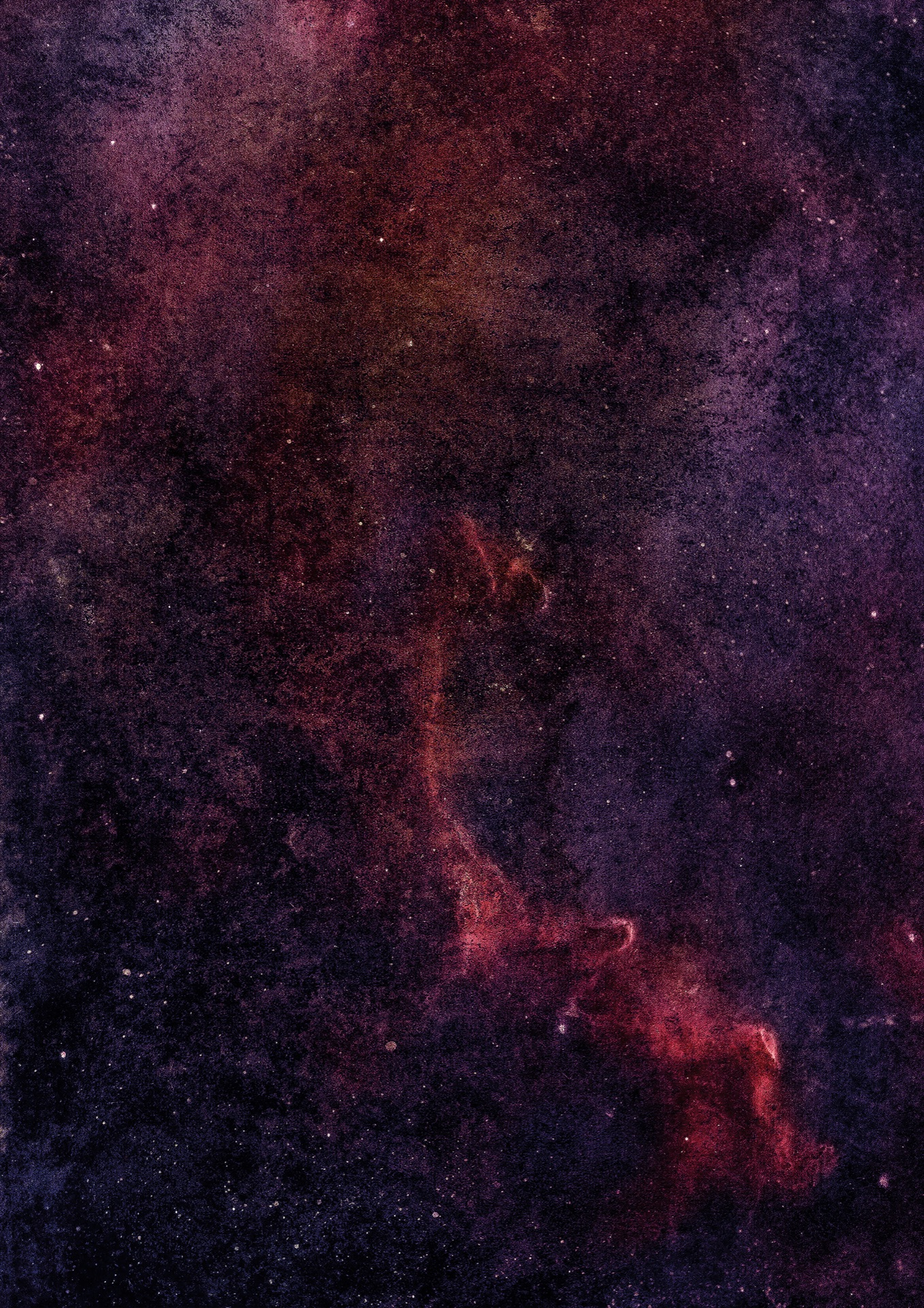
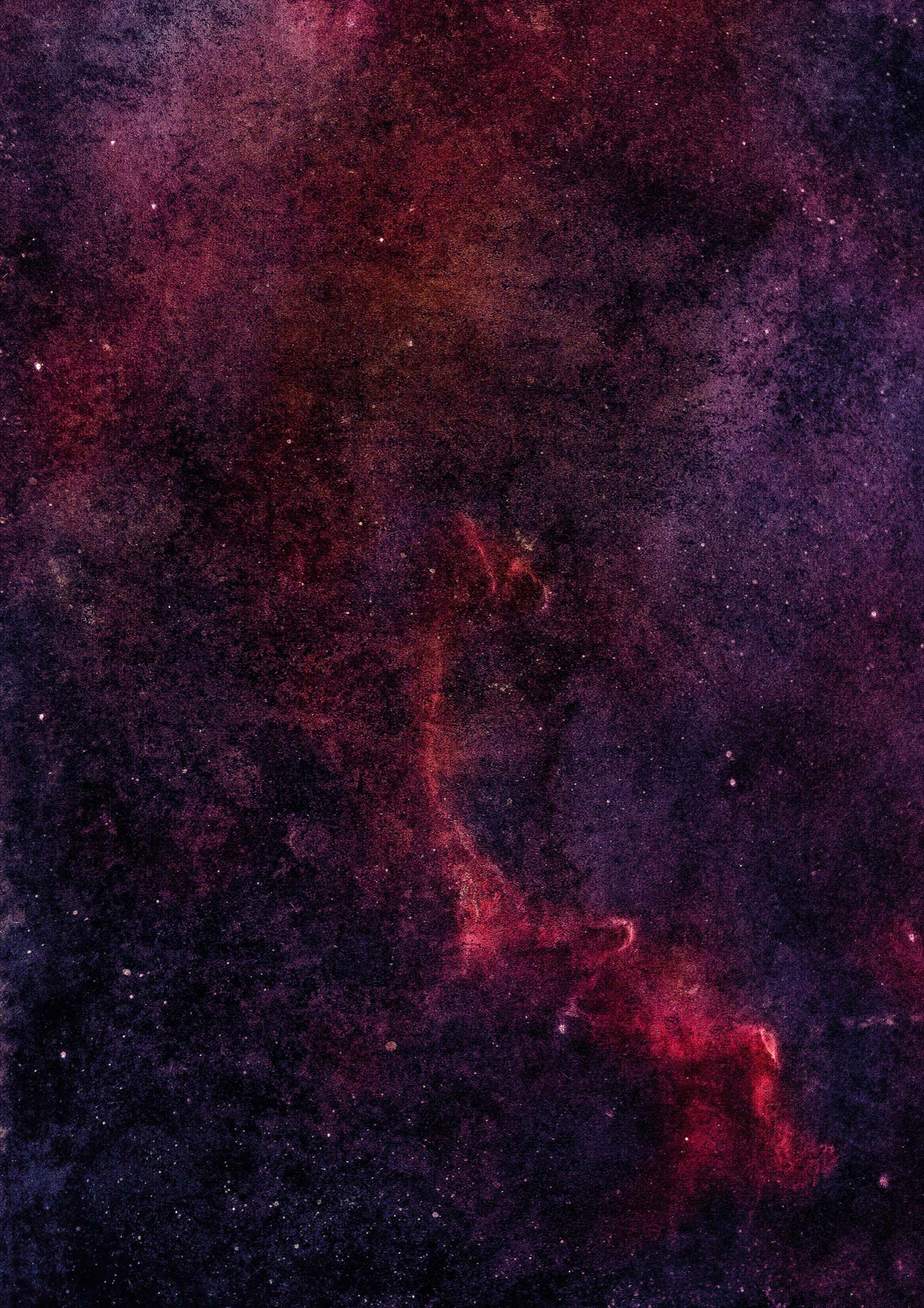
Mensaje del commit

Changed region(s): [[0.7119, 0.75, 0.7738, 0.8125], [0.8047, 0.7812, 0.8357, 0.8438], [0.4952, 0.6875, 0.5571, 0.7188]]

diff --git a/src/data/artistas.ts b/src/data/artistas.ts
@@ -111,13 +111,19 @@ export const artistas2026: Artista[] = [
     nombre: "SYL AL",
     origen: "FRANCE",
     estilo: "DJ - Música seleccionada",
-    imagen: "/artistas/syl-al.jpg",
+    imagen: "/images/2026/syl_al.jpg",
     web: "", // ✏ Actualizar con la web real
     video: "", // ✏ Actualizar con URL de YouTube
     biografia: [
-      "Syl Al es un referente en la selección musical desde Francia, con una trayectoria dedicada a la excavación sonora y la promoción de los sonidos negros americanos más genuinos: Soul, Funk, Boogaloo y R&B.",
-      "Conocido por su capacidad para leer la pista de baile y conectar generaciones a través de la música, sus sets son una masterclass de programación musical, equilibrando himnos clásicos con joyas ocultas de 45 revoluciones.",
-      "Su presencia en el Midnight Boogie Weekend es un lujo para los amantes del vinilo, garantizando transiciones impecables y una atmósfera de club auténtico entre los conciertos en directo."
+      "Soy Syl All, francés de la región de Burdeos. Comencé a coleccionar discos a principios de los años 90 y, poco después, di el salto a las cabinas como DJ.Mi gran pasión es la música afroamericana de finales de los años 50 y los 60: Rhythm & Blues primitivo, Soul clásico, Mod Jazz, Latin Boogaloo, Bossa Nova, Exotica, sonidos Hammond, bongós y flauta, además de Ska y música jamaicana, R&B británico y Garage.",
+      "A lo largo de los años he participado en destacados festivales y encuentros de la escena mod y Rhythm & Blues europea, como Clean Cut, The Beat Goes On, León Mod Weekender, 123 R&B (Reino Unido), Paris Mod Weekend y Afterglow (Belfast), y compartiendo cabina con algunos de los mejores DJs del circuito internacional. Además de estos festivales, actúo habitualmente en restaurantes audiófilos y eventos privados de mi región, compartiendo una pasión que me acompaña desde hace más de tres décadas: descubrir y hacer bailar al público con música auténtica, elegante y atemporal.Es un auténtico placer haber sido invitado como DJ para esta nueva edición del Midnight Boogie Weekend. Espero que disfrutéis de mi selección musical tanto como yo disfrutaré compartiéndola con vosotros.",
+      "¡Muchas gracias y nos vemos en la pista de baile!.",
+      "TOP 5",
+      "1. Otis Rush - I am satisfied CHESS.",
+      "2. Toni Harper - Heavenly love RCA.",
+      "3. Willie Mae Thornton - Just like a dog PEACOCK",
+      "4. John Byner - Baby please dont go POP SIDE",
+      "5. Xavier Cugat - One mint julep MERCURY ",
     ]
   },
 
@@ -126,13 +132,18 @@ export const artistas2026: Artista[] = [
     nombre: "BEA GB",
     origen: "GASTEIZ",
     estilo: "DJ - Música seleccionada",
-    imagen: "/images/2026/bea-gb.png",
+    imagen: "/images/2026/bea-gb.webp",
     web: "",
     video: "",
     biografia: [
-      "BEA GB es una DJ con sede en Vitoria-Gasteiz, reconocida por una selección musical única que conecta la tradición del Northern Soul y el Funk con las pistas de baile más exigentes.",
-      "Sus sesiones son un viaje sonoro cuidadosamente curado, donde los vinilos raros y las ediciones limitadas cobran vida. Ha pinchado en algunas de las noches más memorables de la escena local y festivales del norte de España.",
-      "En Midnight Boogie 2026, BEA GB será la encargada de calentar los motores el viernes y cerrar la noche del sábado con una sesión especial, asegurando que el groove no se detenga hasta el amanecer."
+      "Hola a todos, estoy encantada de participar en este Midnight Boogie, impulsado por amigos muy queridos, que comparten mi pasión por esta música del alma. Y es que en tantos años se   amontonan en mi cabeza miles de anécdotas y buenos ratos, un tiempo en el que no he dejado de disfrutar aprendiendo y descubriendo los más estimulantes sonidos. 25 años que se han ido volando y durante los cuales prácticamente se ha definido mi parte en la mejor escena del mundo. Hay muchas formas de protestar y muchos elegimos esta, elegancia, estilo, clase, compromiso, resistencia… y fiesta!.",
+      "Mis sets están compuestos por soul (60’s-early70’s) y rhythm&blues, y siempre incluyo algo de latin refrescante. He tenido la ocasión de pinchar en eventos como el Mod Generation Club, Mojo Workin’, Beat Goes On, Euro Ye-Yé, All Saints Mod Holiday Lavarone, Clean Cut y Ebroclub.",
+      "TOP 5:",
+      "1. I'm shakin - Little Willie John",
+      "2. Heartbreaker - BB King",
+      "3. Sweet lover no more - Gene McDaniels",
+      "4. Keep an eye on love - Ernestine Anderson",
+      "5. He'll come back - Sylvia Shemwell",
     ]
   },
  

diff --git a/src/data/archivo.ts b/src/data/archivo.ts
@@ -58,7 +58,7 @@ export const pastEditions: PastEdition[] = [
     dates: "27-28 de noviembre, 2020",
     description: "Espectacular edición del festival, con una gran afluencia a todos los eventos y las entradas agotadas el sábado.",
     artists: ["Artista 1", "Artista 2", "Artista 3"],
-    image: "/images/archivo-2020.jpg"
+    image: "/images/2020/2020.jpg"
   },
   {
     year: 2019,
@@ -84,12 +84,5 @@ export const pastEditions: PastEdition[] = [
     artists: ["Artista 1", "Artista 2", "Artista 3"],
     image: "/images/2017/2017.jpg"
   },
-  {
-    year: 2016,
-    title: "Midnight Boogie 2016",
-    dates: "25-26 de noviembre, 2016",
-    description: "Espectacular edición del festival, con una gran afluencia a todos los eventos y las entradas agotadas el sábado.",
-    artists: ["Artista 1", "Artista 2", "Artista 3"],
-    image: "/images/archivo-2016.jpg"
-  }
+ 
 ];

diff --git a/src/lib/getSlug.ts b/src/lib/getSlug.ts
@@ -1,0 +1,18 @@
+/**
+ * Generates a clean, consistent slug from an artist name.
+ * Normalizes unicode, removes accents, strips non-alphanumeric characters,
+ * and replaces spaces/multiple hyphens with a single hyphen.
+ * 
+ * Example: "Syl Al" -> "syl-al"
+ *          "STONE FOUNDATION" -> "stone-foundation"
+ */
+export function getSlug(nombre: string): string {
+  return nombre
+    .toLowerCase()
+    .normalize("NFD")
+    .replace(/[\u0300-\u036f]/g, "") // remove accents/diacritics
+    .replace(/[^a-z0-9\s-]/g, "")    // remove non-alphanumeric chars (keep spaces and hyphens)
+    .trim()
+    .replace(/\s+/g, "-")            // replace spaces with hyphens
+    .replace(/-+/g, "-");            // deduplicate hyphens
+}

diff --git a/src/data/programa.ts b/src/data/programa.ts
@@ -67,7 +67,7 @@ export const programa2026 = {
         descripcion: "Taller musical para los más pequeños. Un clásico en nuestra programación: la escuela de música Creative Soul ofrecerá un taller muy didáctico de improvisación y experimentación musical para los peques.",
         artistas: [],
         precio: "Gratis con inscripción",
-        link: "https://www.fundacionvital.eus/",
+        link: "https://www.fundacionvital.eus/taller-musical-infantil-creative-soul",
         linkTexto: "Inscripción en la web de Fundación Vital"
       }
     ]

diff --git a/src/data/entradas.ts b/src/data/entradas.ts
@@ -31,7 +31,7 @@ export const entradas2026: Entrada[] = [
     precioTaquilla: "18€",
     link: "https://www.arkabia.eus",
     linkTexto: "Comprar en Arkabia",
-    estado: "Disponible"
+    estado: "Últimas entradas"
   },
 
   // ============================================

diff --git a/GEMINI.md b/GEMINI.md
@@ -60,10 +60,16 @@ Sitio web oficial del festival de música en Vitoria-Gasteiz.
 - Videos con url que pague derechos al grupo
 
 - Calcular el trabajo y hacer presupuesto standart, a precio de mercado profesional
-- Entregar presupuesto real, muy bajo, por ser viejo cliente y learnig-work
-- Mantener los gastos de dominio, alojamiento y mantenimiento cerca de 0.
-- Pasar de Arsys, son muy caros y antipáticos
+
 - Consultar últimas modificaciones y entregar el control total del contenido al dueño
 - Dejar todo el diseño bloqueado
 
 - IMPORTANTE DNS, y su email no me funciona, domingo por la mañana como tarde arreglar
+
+## Estado del formulario de contacto (en curso)
+- Sustituido Formspree por Brevo: función serverless api/contacto.js (raíz del repo)
+- Clave BREVO_API_KEY guardada en Vercel (Settings del proyecto → Environment Variables)
+- Remitente Brevo validado con igu.soul@gmail.com (sender de la función usa ese email)
+- contacto.astro: form con id="contact-form", honeypot "website", script delegado, fetch a /api/contacto
+- PENDIENTE: hacer commit+push, probar el formulario en producción y verificar llegada en Brevo
+- La función api/ solo corre en producción (Vercel), no en npm run dev
